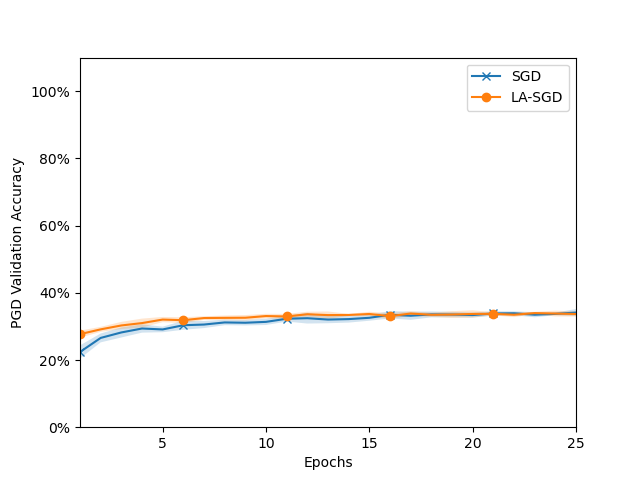
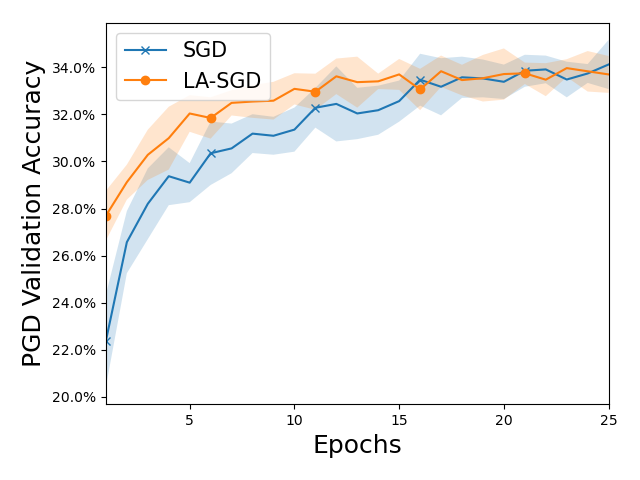
rescale y-axis

diff --git a/Hyperparam_tuning/overall_robustness_eval.py b/Hyperparam_tuning/overall_robustness_eval.py
@@ -3,6 +3,7 @@ import matplotlib.pyplot as plt
 from pathlib import Path
 from Utils.visualization_utils import *
 import os
+import matplotlib
 
 markers=('o', 'x', '^', '<', '>', '*', 'h', 'H', 'D', 'd', 'P', 'X', '8', 's', 'p')
 
@@ -58,10 +59,13 @@ def plot_total_avg_acc():
                 dataset, attack, 'LA-' + optim_name)
         pd.concat([mean_series,std_series], axis=1).to_csv(filename_LA, index=False)
 
-        ax.legend([optim_name, 'LA-' + optim_name])
-        ax.set_ylim(0, 1.0)
-        ax.set_ylabel('Accuracy')
-        ax.set_xlabel('Epoch')
+        ax.legend([optim_name, 'LA-' + optim_name], prop={'size': 15})
+        # ax.set_ylim(0, 1.0)
+        ax.set_ylabel('PGD Validation Accuracy', fontsize=18)
+        ax.set_xlabel('Epoch', fontsize=18)
+        font = {'size': 15}
+        matplotlib.rc('font', **font)
+        matplotlib.pyplot.tight_layout()
         plt.savefig(filename[:-3]+'png')
         plt.show()
 
@@ -83,5 +87,5 @@ def compute_avg_std():
 
 
 if __name__ == "__main__":
-    # plot_total_avg_acc()
+    plot_total_avg_acc()
     compute_avg_std()

diff --git a/results/result_eval.py b/results/result_eval.py
@@ -8,8 +8,8 @@ from pathlib import Path
 from Utils.visualization_utils import tsplot
 markers=('o', 'x', '^', '<', '>', '*', 'h', 'H', 'D', 'd', 'P', 'X', '8', 's', 'p')
 
-dataset = 'CIFAR10'
-attack = None
+dataset = 'MNIST'
+attack = 'pgd'
 
 if attack is None:
     train_path = "{}/adv_train_results".format(dataset)
@@ -47,7 +47,7 @@ def plot_avg_valid_results():
         ax.set_xlabel('Epochs', fontsize=18)
         ax.set_ylabel('{} Validation Accuracy'.format(attack.upper()) if attack is not None else "Validation Accuracy",
                       fontsize=18)
-        ax.set_ylim(0, 1.1)
+        # ax.set_ylim(0, 1.1)
         ax.yaxis.set_major_formatter(mtick.PercentFormatter(1.0))
         font = {'size': 15}
         matplotlib.rc('font', **font)
